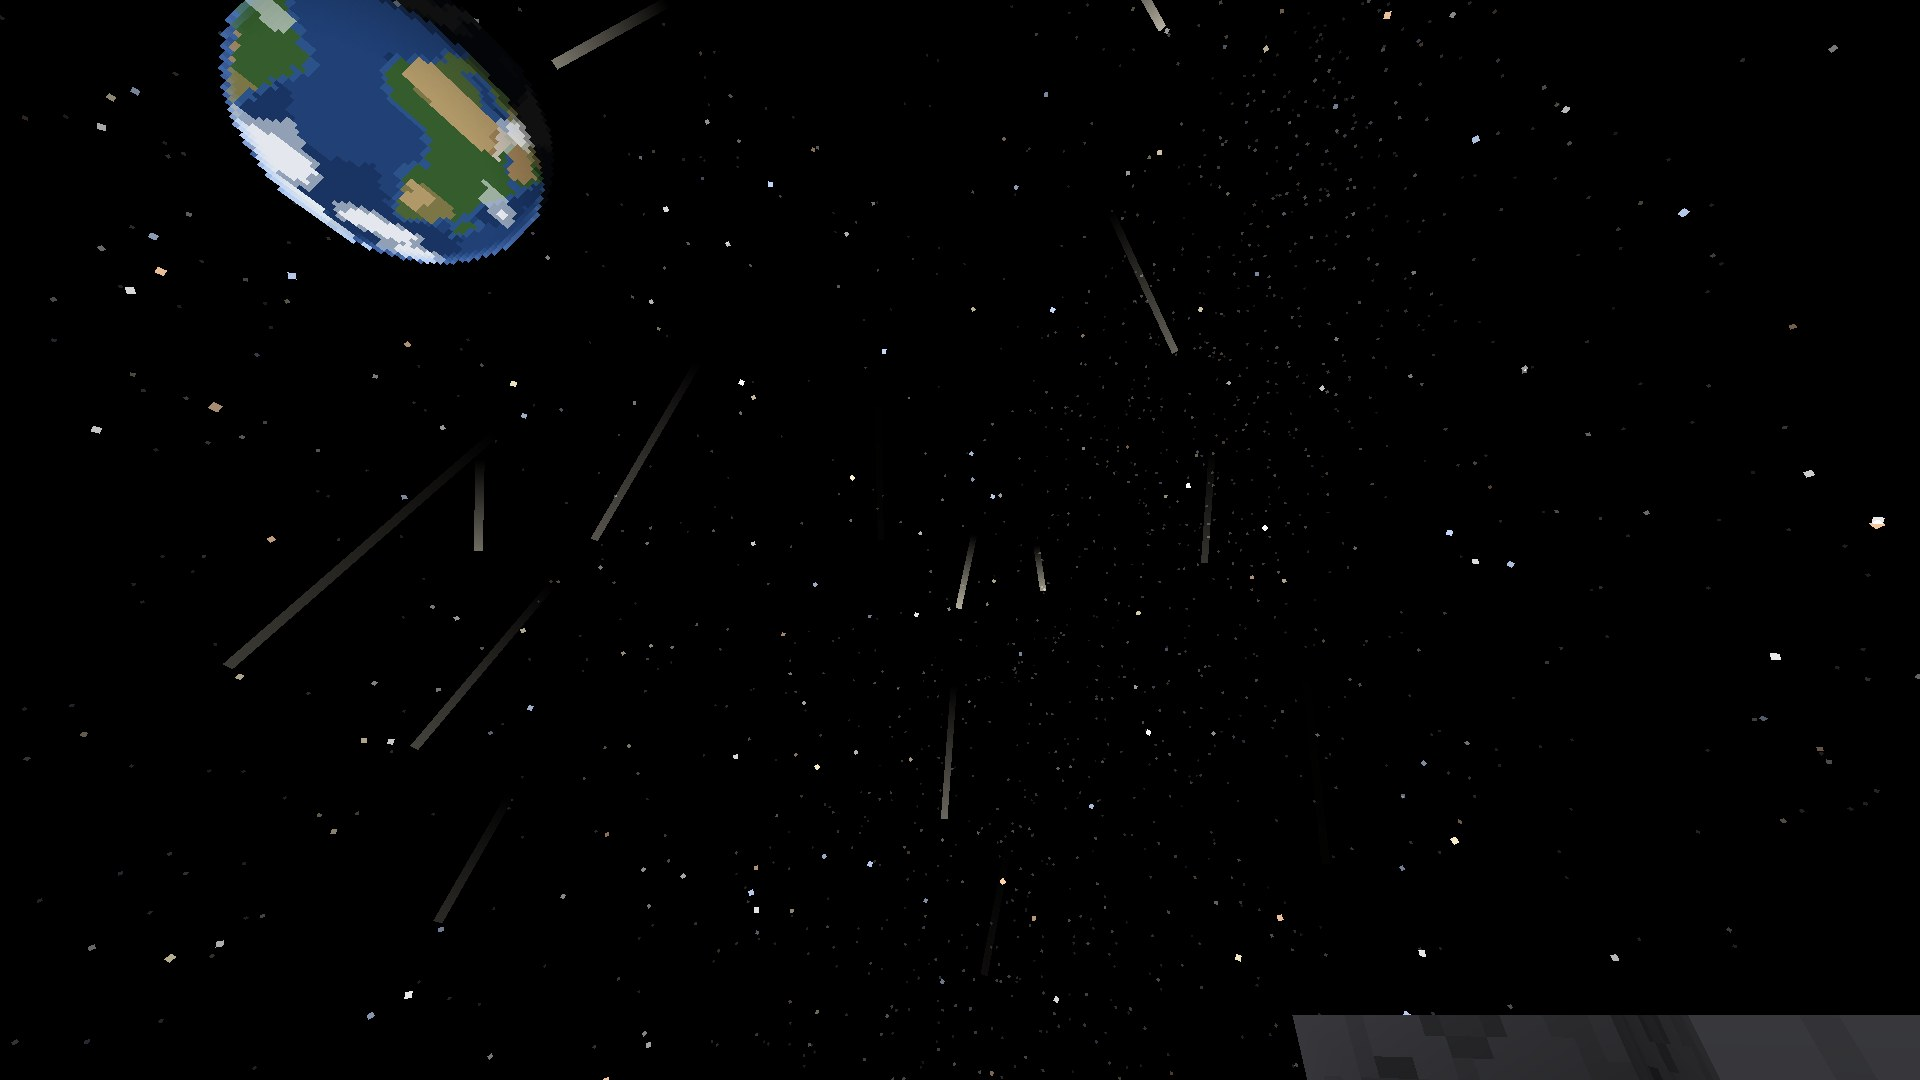
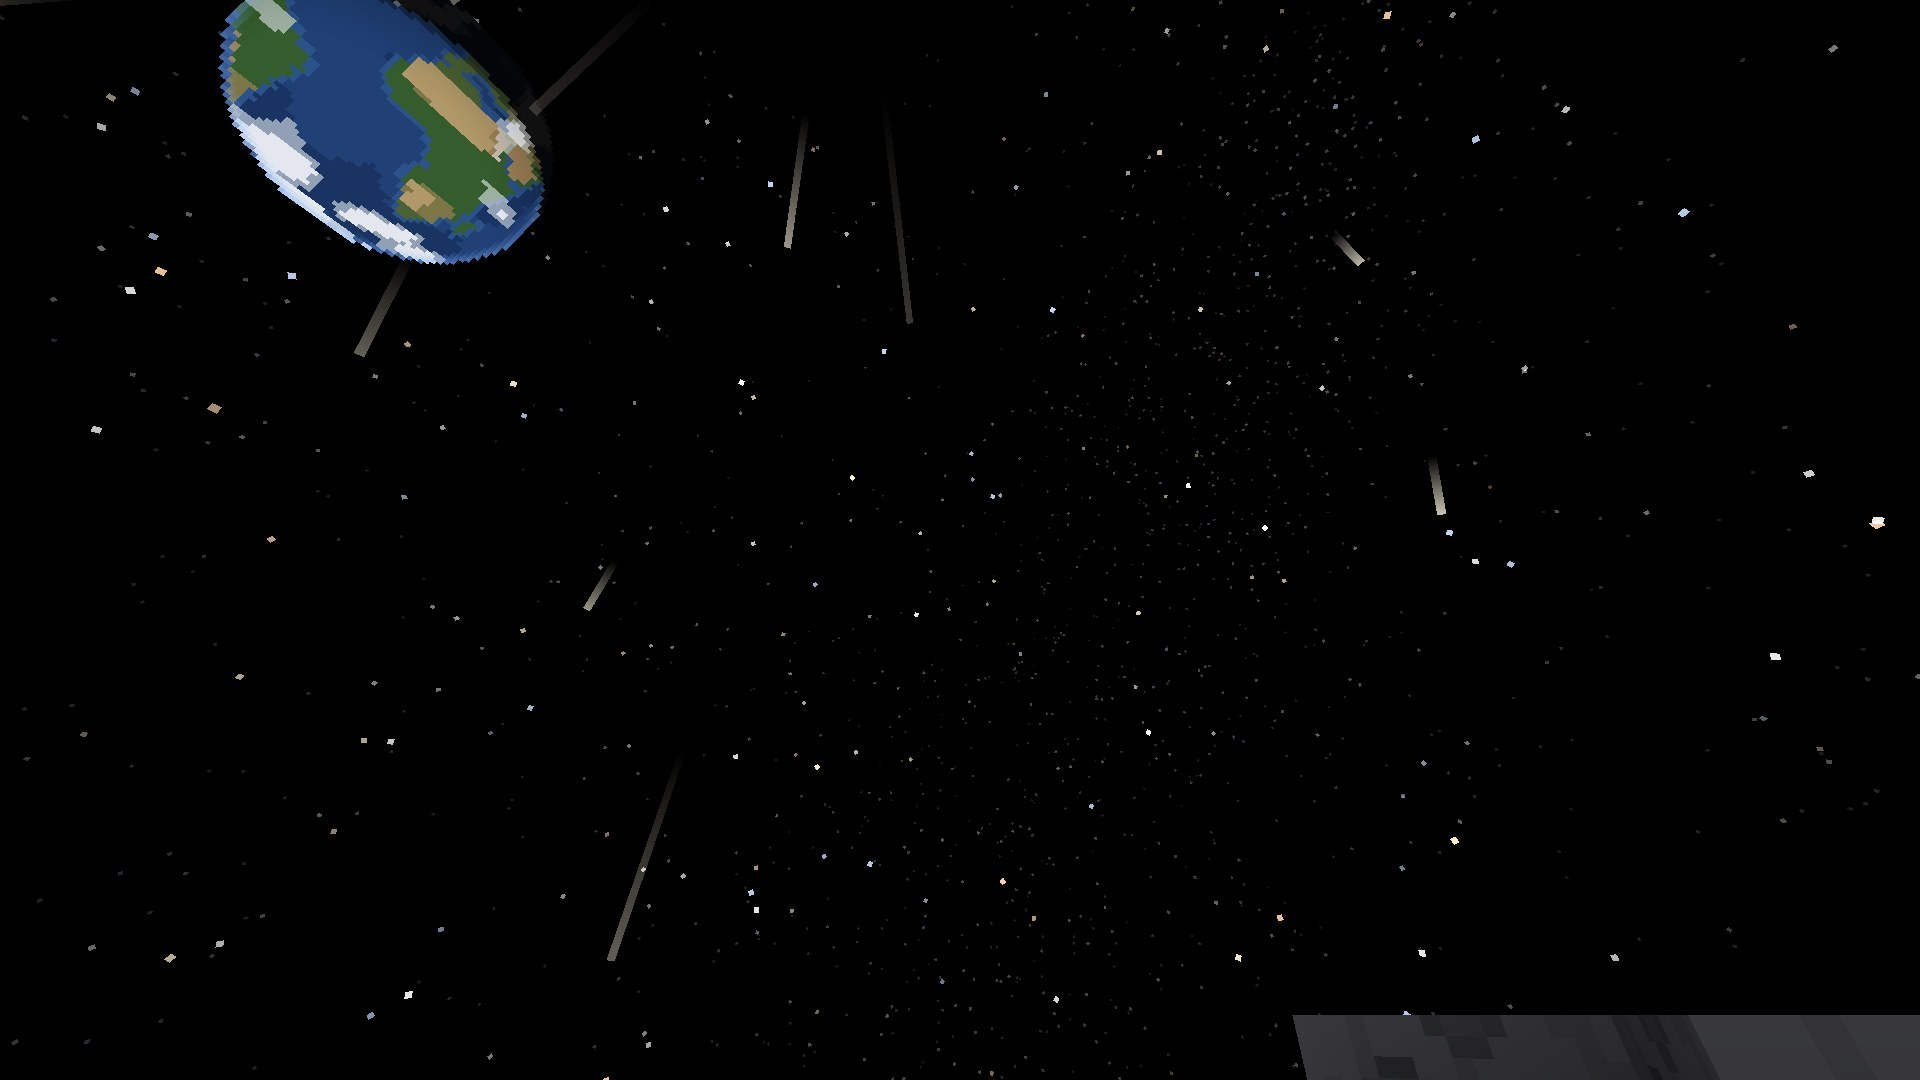
Micrometeorite streaks: spawn a batch for every tick since the last frame
The sky streaks no longer thin out at low frame rates (e.g. heavy shader packs):
each frame spawns the batches of all ticks passed since the previous one (at
most 20), with their own birth ticks.

diff --git a/src/main/java/com/pizzaparker07/spacebreaker/client/sky/MeteorStreaks.java b/src/main/java/com/pizzaparker07/spacebreaker/client/sky/MeteorStreaks.java
@@ -39,20 +39,27 @@ public final class MeteorStreaks {
         if (tick == lastTick) {
             return;
         }
+        // one batch for every tick since the last frame (at most 20), so slow frames do not thin the shower out
+        long from = lastTick == Long.MIN_VALUE || tick < lastTick ? tick : lastTick + 1;
         lastTick = tick;
         STREAKS.removeIf(s -> tick - s.born() > s.life());
         if (!ShowerClientState.active(level.dimension())) {
             return;
         }
-        int n = 1 + RANDOM.nextInt(4);
-        for (int i = 0; i < n; i++) {
-            // a start point high in the sky, moving roughly downward at a slant
-            float az = RANDOM.nextFloat() * (float) Math.PI * 2;
-            float el = 0.25F + RANDOM.nextFloat() * 1.1F;
-            Vector3f from = new Vector3f((float) (Math.cos(el) * Math.cos(az)), (float) Math.sin(el), (float) (Math.cos(el) * Math.sin(az)));
-            float daz = az + (RANDOM.nextFloat() - 0.5F) * 1.2F;
-            Vector3f dir = new Vector3f((float) Math.cos(daz), -0.6F - RANDOM.nextFloat() * 0.8F, (float) Math.sin(daz)).normalize();
-            STREAKS.add(new Streak(from, dir, tick, 10 + RANDOM.nextInt(12), 0.12F + RANDOM.nextFloat() * 0.25F, 0.7F + RANDOM.nextFloat() * 0.3F));
+        for (long t = Math.max(from, tick - 20); t <= tick; t++) {
+            int n = 1 + RANDOM.nextInt(4);
+            for (int i = 0; i < n; i++) {
+                // a start point high in the sky, moving roughly downward at a slant
+                float az = RANDOM.nextFloat() * (float) Math.PI * 2;
+                float el = 0.25F + RANDOM.nextFloat() * 1.1F;
+                Vector3f start = new Vector3f((float) (Math.cos(el) * Math.cos(az)), (float) Math.sin(el), (float) (Math.cos(el) * Math.sin(az)));
+                float daz = az + (RANDOM.nextFloat() - 0.5F) * 1.2F;
+                Vector3f dir = new Vector3f((float) Math.cos(daz), -0.6F - RANDOM.nextFloat() * 0.8F, (float) Math.sin(daz)).normalize();
+                int life = 10 + RANDOM.nextInt(12);
+                if (tick - t <= life) {
+                    STREAKS.add(new Streak(start, dir, t, life, 0.12F + RANDOM.nextFloat() * 0.25F, 0.7F + RANDOM.nextFloat() * 0.3F));
+                }
+            }
         }
     }
 
